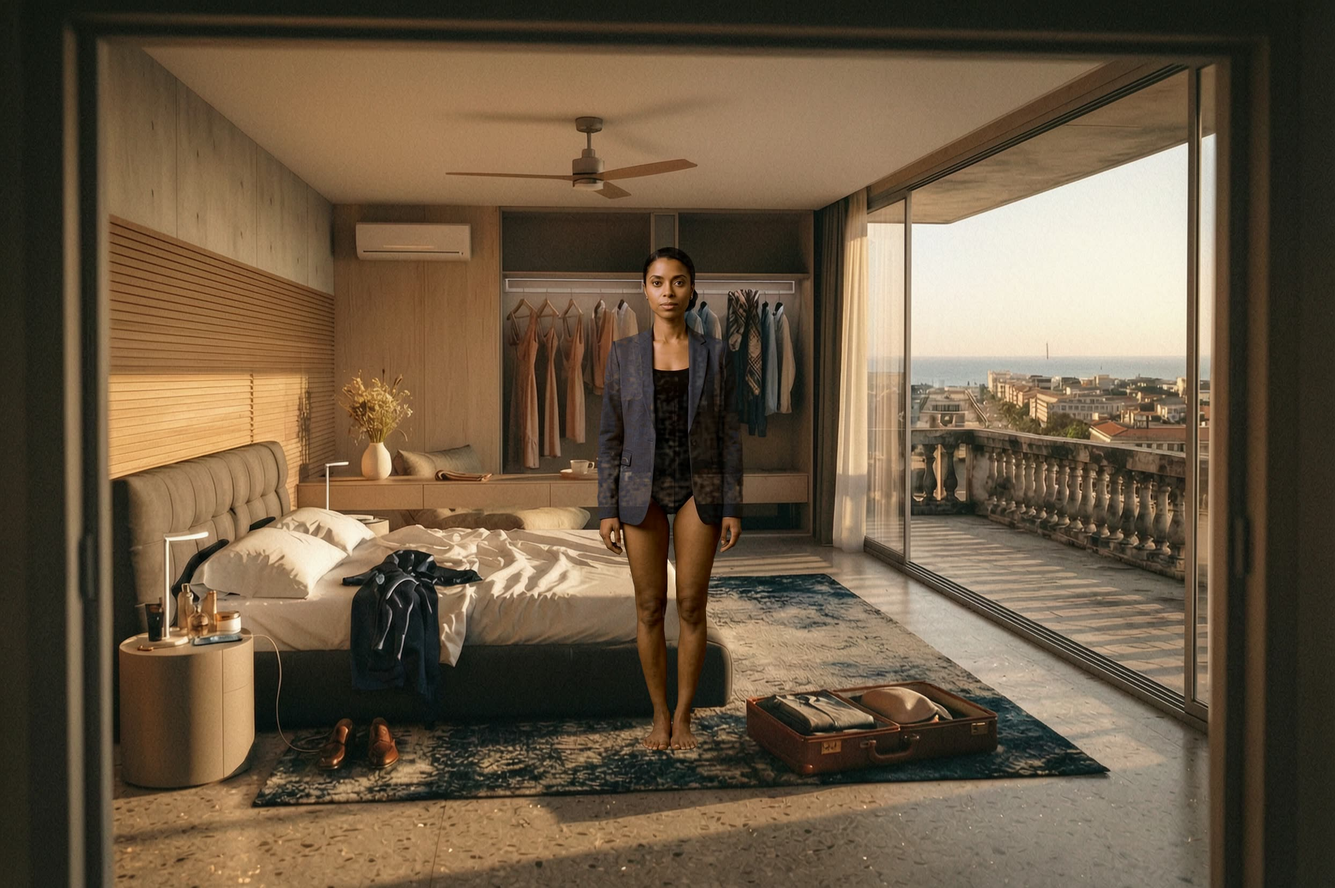
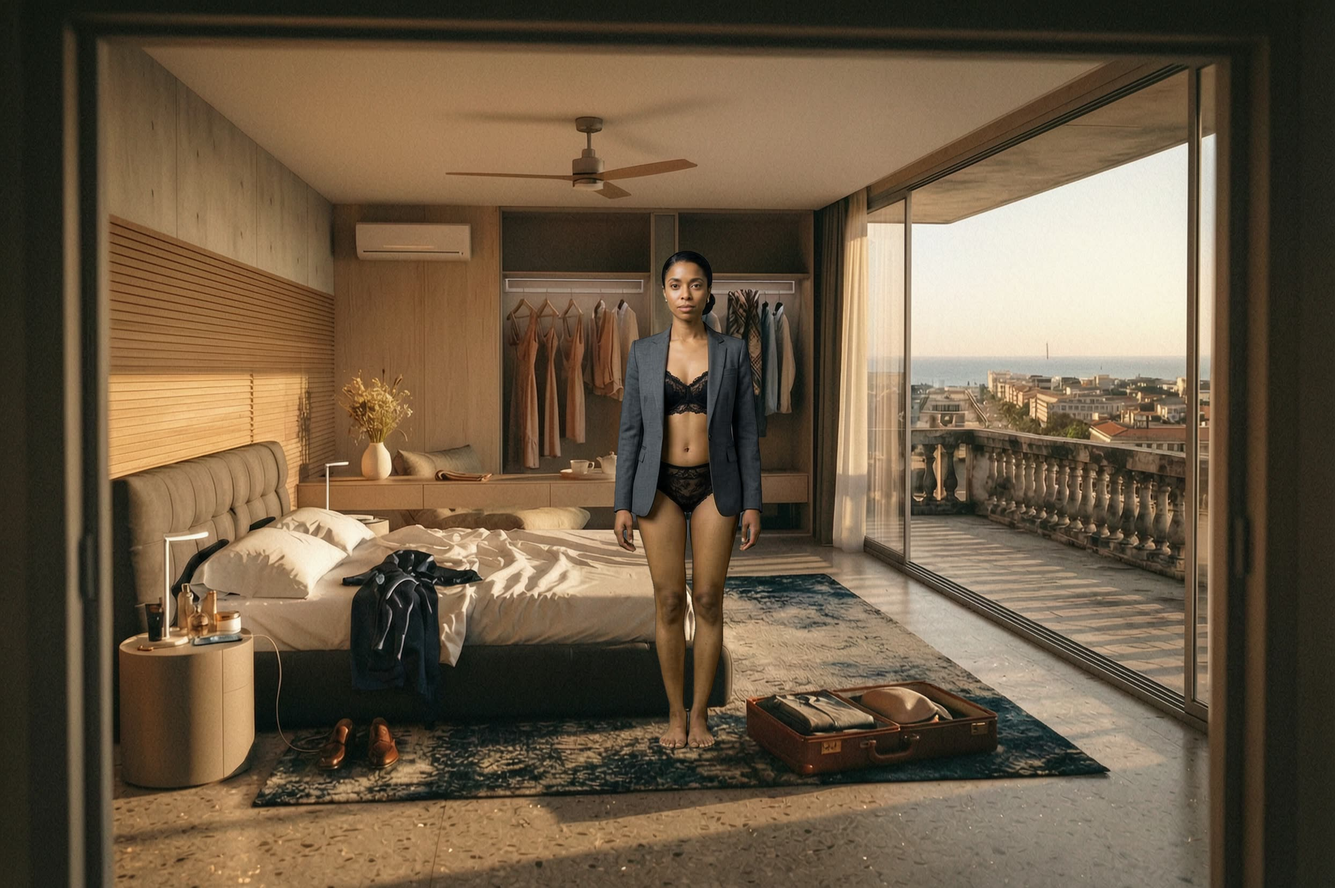
Cinq chambres refaites, et personne n'est plus transparent
Trois d'entre elles passent a la dentelle deux pieces. Les deux autres
souffraient d'un defaut de decoupe : on voyait la penderie a travers la
militante et la cheffe du protocole.

La cause est le filtre. `chromakey` travaille en YUV et ne compare que la
chrominance : un cheveu noir, un jean sombre, une peau dans l'ombre n'en
ont presque pas, il les trouve donc aussi verts que le fond et les efface
a moitie. `colorkey`, qui compare en RVB, garde tout. L'alpha est ensuite
binarise puis ferme, pour qu'aucune demi-transparence ne subsiste et que
les trous perces dans un vetement se rebouchent.

Reste un piege que le filtre ne rattrape pas : la cheffe du protocole
portait une robe verte, aussi verte que le fond. Elle porte desormais un
kimono ivoire, et le tour de main s'arrete de lui-meme quand une decoupe
revient trop courte, plutot que de livrer un fantome.

Changed region(s): [[0.4333, 0.2772, 0.588, 0.8623]]

diff --git a/outils/incruste_chambre.py b/outils/incruste_chambre.py
@@ -1,0 +1,140 @@
+#!/usr/bin/env python3
+"""Incruste les quatre poses d'une planche sur fond vert dans la chambre.
+
+    python3 outils/incruste_chambre.py <planche.png> <plaque.png> <sortie/>
+
+La planche fait quatre poses côte à côte, sur un vert qui n'est jamais tout
+à fait le même d'une planche à l'autre ni d'un bord à l'autre : on le
+relève donc pose par pose, dans un coin, au lieu d'en coder un en dur.
+
+Le fond part au `colorkey`, qui compare en RVB, et jamais au `chromakey`,
+qui ne regarde que la chrominance : un cheveu noir ou un jean sombre n'en
+ont presque pas, il les juge donc aussi verts que le fond et les efface à
+moitié. C'est ce qui rendait la militante et la cheffe du protocole
+transparentes — on voyait la penderie à travers elles.
+
+L'alpha est ensuite binarisé, puis fermé, puis refeutré d'un pixel : pas
+de demi-transparence du tout, et les trous que le vert perce dans un
+vêtement se rebouchent.
+
+Une robe verte, elle, ne se rattrape pas : le tour s'arrête et demande une
+autre planche.
+"""
+
+import os
+import subprocess
+import sys
+
+POSES = 4
+# Le cadrage d'origine, mesuré sur les plaques déjà livrées : la personne
+# fait 928 pixels de haut, les pieds posés à 1397, au milieu de la pièce.
+HAUTEUR = 928
+SOL = 1397
+MILIEU = 1285
+
+
+def dimensions(chemin):
+    r = subprocess.run(
+        ['ffprobe', '-v', 'error', '-select_streams', 'v',
+         '-show_entries', 'stream=width,height', '-of', 'csv=p=0', chemin],
+        capture_output=True, text=True, check=True)
+    w, h = r.stdout.strip().split(',')[:2]
+    return int(w), int(h)
+
+
+def vert(planche, x, y):
+    """La couleur du fond, relevée sur un carré de vingt pixels."""
+    raw = subprocess.run(
+        ['ffmpeg', '-v', 'error', '-i', planche,
+         '-vf', f'crop=20:20:{x}:{y},scale=1:1', '-f', 'rawvideo',
+         '-pix_fmt', 'rgb24', '-'], capture_output=True).stdout
+    return '0x%02X%02X%02X' % tuple(raw[:3])
+
+
+def detoure(planche, panneau, i, couleur, sortie):
+    """Une pose détourée, alpha durci, en PNG."""
+    largeur, hauteur = panneau
+    subprocess.run(
+        ['ffmpeg', '-v', 'error', '-y', '-i', planche, '-filter_complex',
+         f'crop={largeur}:{hauteur}:{i * largeur}:0,format=rgba,'
+         # `colorkey` compare en RVB. `chromakey`, qui travaille en YUV,
+         # ne regarde que la chrominance : un cheveu noir ou un jean sombre
+         # n'ont presque pas de chrominance, il les trouve donc aussi
+         # proches du vert que le fond lui-même et les efface. C'est ce
+         # qui rendait les gens transparents.
+         f'colorkey={couleur}:0.18:0.03,split[c][a];'
+         '[c]despill=type=green:mix=0.5:expand=0[cc];'
+         # L'alpha est binarisé, puis fermé — une dilatation suivie d'une
+         # érosion — pour boucher les trous que le vert a percés dans les
+         # vêtements, avant d'être refeutré d'un pixel sur le bord.
+         "[a]format=rgba,alphaextract,format=gray,lut=y='if(gt(val,128),255,0)',"
+         'dilation,dilation,dilation,dilation,'
+         'erosion,erosion,erosion,erosion,boxblur=1:1[m];'
+         '[cc][m]alphamerge',
+         '-frames:v', '1', '-update', '1', sortie],
+        check=True)
+
+
+def boite(png):
+    """Le rectangle occupé par la personne, lu dans l'alpha."""
+    w, h = dimensions(png)
+    raw = subprocess.run(
+        ['ffmpeg', '-v', 'error', '-i', png, '-vf', 'alphaextract',
+         '-f', 'rawvideo', '-pix_fmt', 'gray', '-'],
+        capture_output=True).stdout
+    x1, y1, x2, y2 = w, h, -1, -1
+    for y in range(h):
+        ligne = raw[y * w:(y + 1) * w]
+        i = next((k for k in range(w) if ligne[k] > 200), -1)
+        if i < 0:
+            continue
+        j = next((k for k in range(w - 1, -1, -1) if ligne[k] > 200), i)
+        x1, x2 = min(x1, i), max(x2, j)
+        y1, y2 = min(y1, y), max(y2, y)
+    if x2 < 0:
+        sys.exit(f'{png} : rien à détourer — le fond a tout mangé')
+    return x1, y1, x2 - x1 + 1, y2 - y1 + 1
+
+
+def main():
+    if len(sys.argv) != 4:
+        sys.exit(__doc__)
+    planche, plaque, sortie = sys.argv[1:4]
+    os.makedirs(sortie, exist_ok=True)
+    pw, ph = dimensions(planche)
+    panneau = (pw // POSES, ph)
+    pl_w, pl_h = dimensions(plaque)
+
+    for i in range(POSES):
+        decoupe = os.path.join(sortie, f'_pose{i + 1}.png')
+        # Le vert se relève en haut à gauche du panneau, loin de la personne.
+        couleur = vert(planche, i * panneau[0] + 20, 20)
+        detoure(planche, panneau, i, couleur, decoupe)
+        bx, by, bw, bh = boite(decoupe)
+        if bh < ph * 0.5:
+            sys.exit(f'{planche} pose {i + 1} : la découpe ne fait que {bh} '
+                     'pixels de haut — un vêtement de la couleur du fond a '
+                     'été mangé, il faut refaire la planche.')
+        echelle = HAUTEUR / bh
+        large = round(bw * echelle)
+        # On garde le décalage de la pose par rapport au centre du panneau :
+        # c'est lui qui fait qu'elle avance vers nous d'une image à l'autre.
+        centre = bx + bw / 2 - panneau[0] / 2
+        x = round(MILIEU + centre * echelle - large / 2)
+        y = SOL - HAUTEUR
+        cle = os.path.join(sortie, f'k{i + 1}.jpg')
+        subprocess.run(
+            ['ffmpeg', '-v', 'error', '-y', '-i', plaque, '-i', decoupe,
+             '-filter_complex',
+             f'[1]crop={bw}:{bh}:{bx}:{by},scale={large}:{HAUTEUR}[p];'
+             f'[0][p]overlay={x}:{y}',
+             '-q:v', '4', '-frames:v', '1', '-update', '1', cle],
+            check=True)
+        os.remove(decoupe)
+        print(f'  k{i + 1}  découpe {bw}×{bh} → {large}×{HAUTEUR} en {x},{y}')
+
+    print(f'{sortie} — quatre clés sur {pl_w}×{pl_h}')
+
+
+if __name__ == '__main__':
+    main()
